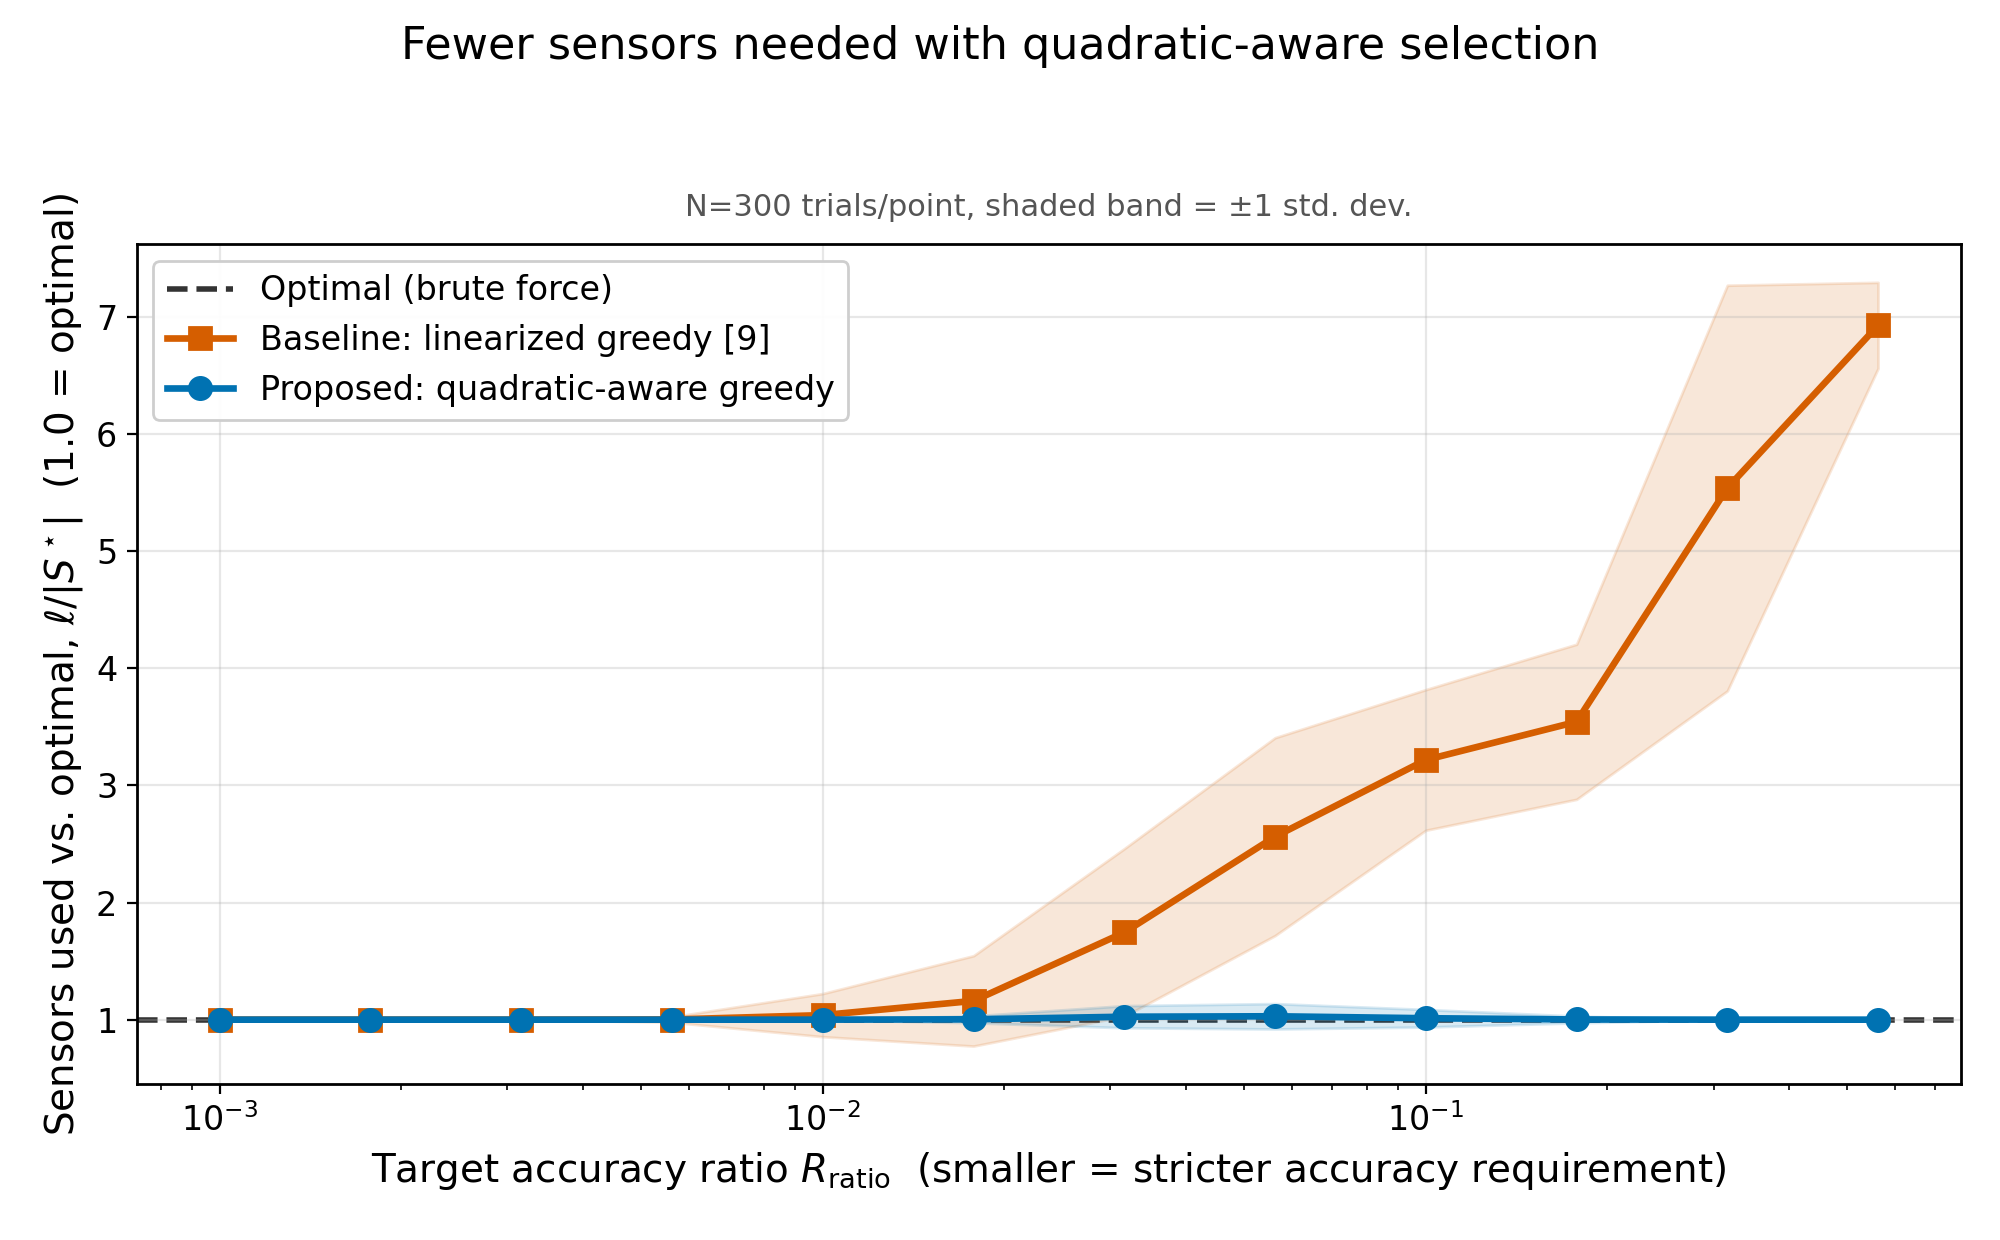
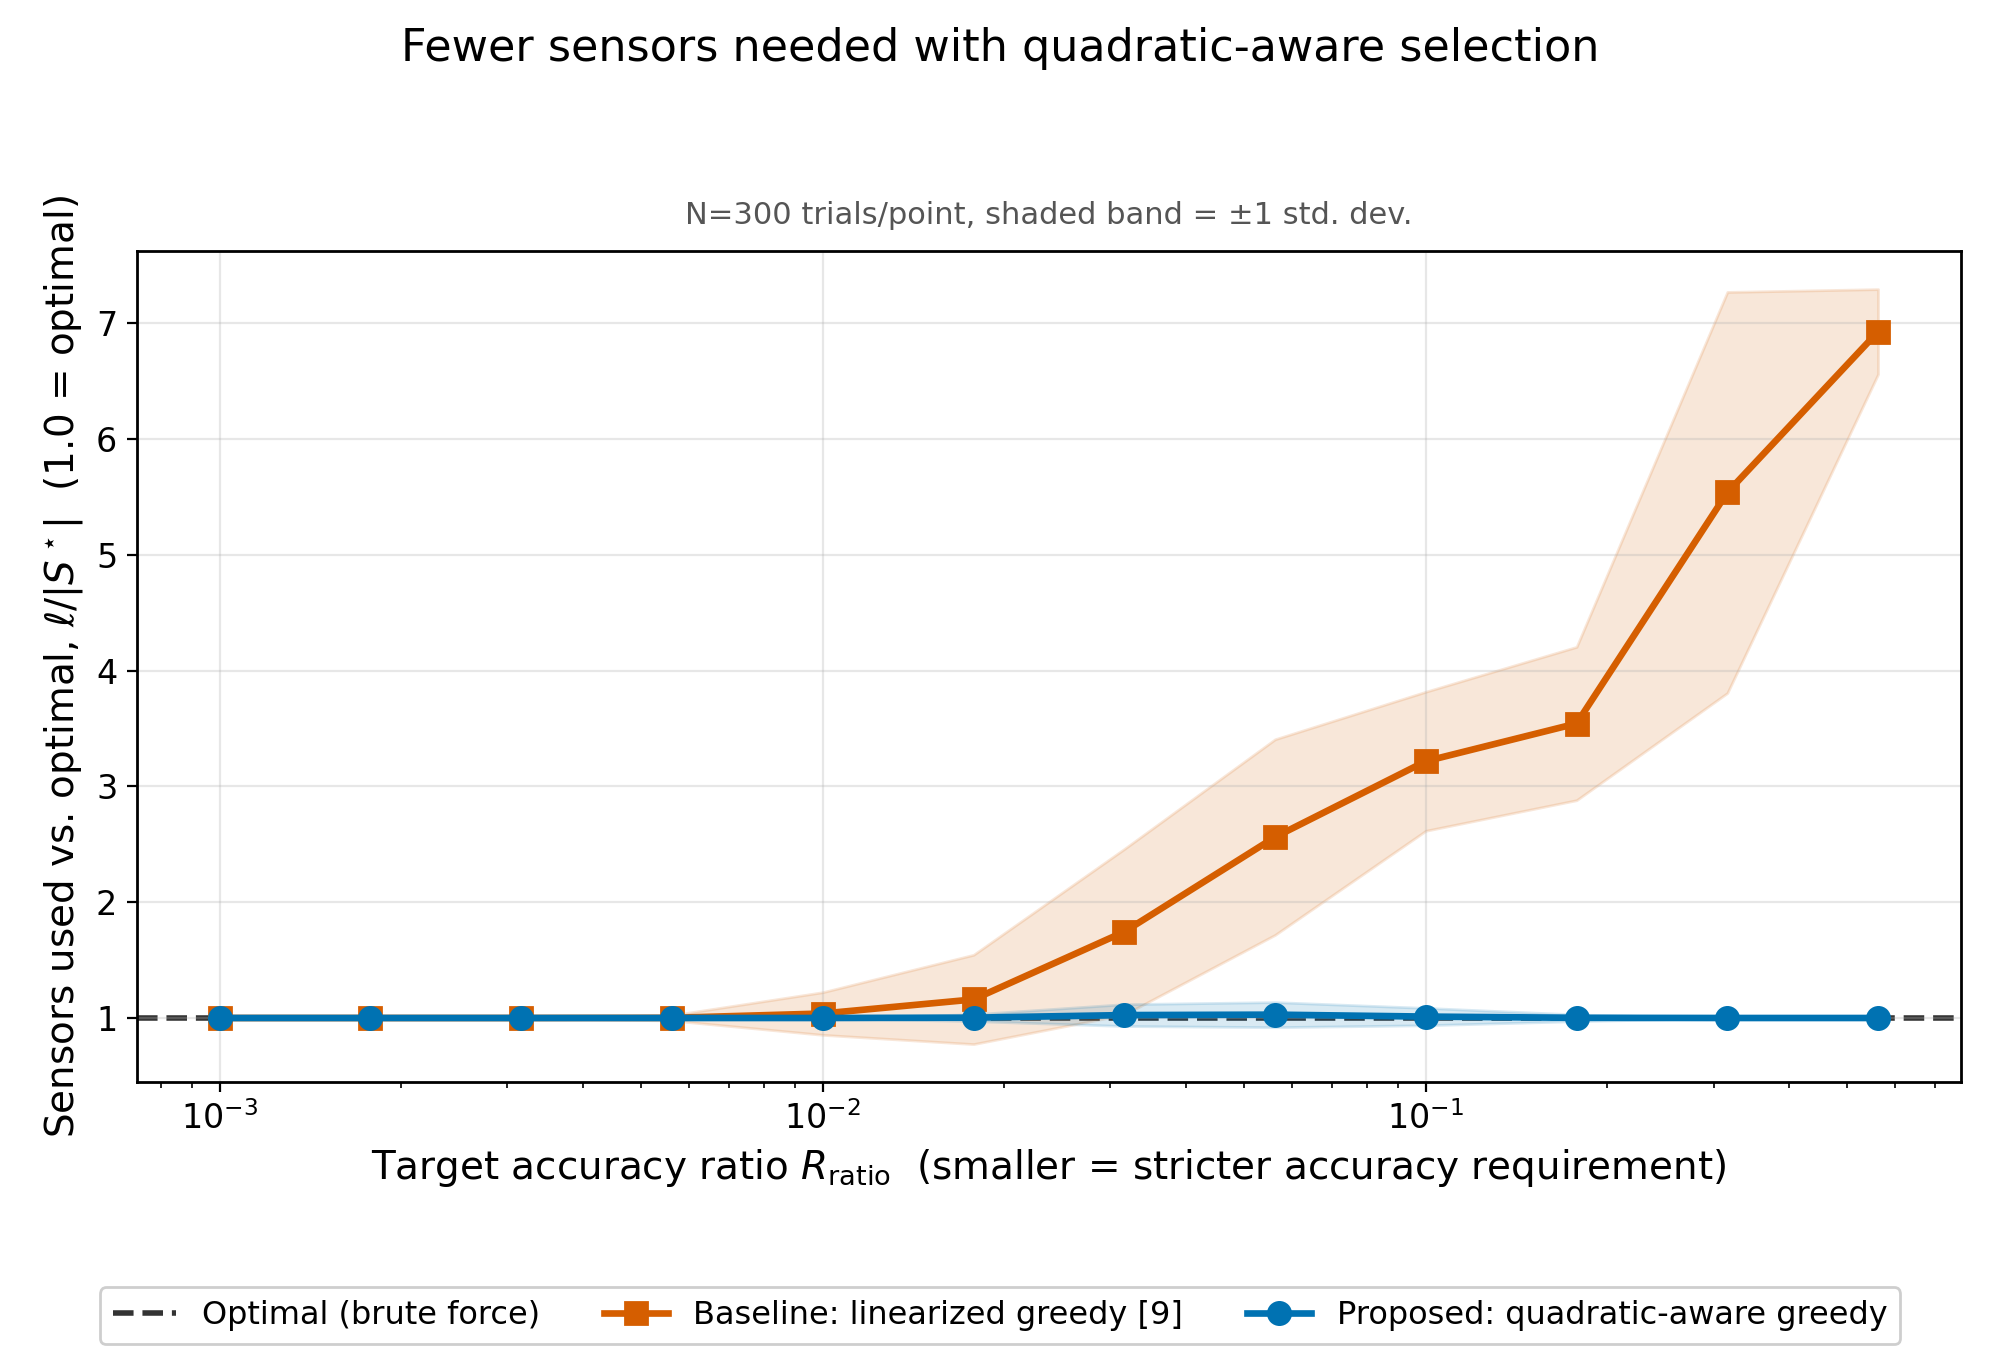
fixed figures

diff --git a/LQG_QKF/CDC/generate_figures.py b/LQG_QKF/CDC/generate_figures.py
@@ -94,7 +94,7 @@ def generate_fig1():
     quad_mean, quad_std = np.array(quad_mean), np.array(quad_std)
     lin_mean, lin_std = np.array(lin_mean), np.array(lin_std)
 
-    fig, ax = plt.subplots(figsize=(10, 6.2))
+    fig, ax = plt.subplots(figsize=(10, 6.8))
     ax.axhline(1.0, color=COLORS['brute'], linestyle='--', linewidth=2,
                label='Optimal (brute force)', zorder=1)
     ax.plot(R_ratios, lin_mean, color=COLORS['lin'], marker='s',
@@ -106,11 +106,17 @@ def generate_fig1():
     ax.set_xscale('log')
     ax.set_xlabel(r'Target accuracy ratio $R_{\mathrm{ratio}}$  (smaller = stricter accuracy requirement)')
     ax.set_ylabel(r'Sensors used vs. optimal, $\ell/|S^\star|$  (1.0 = optimal)')
-    ax.legend(loc='upper left', framealpha=0.95)
     ax.grid(alpha=0.3)
     fig.suptitle('Fewer sensors needed with quadratic-aware selection', y=0.98, fontsize=16)
     ax.set_title(f'N={N_FIG1} trials/point, shaded band = ±1 std. dev.', fontsize=11, color='#555555', pad=10)
-    fig.tight_layout(rect=[0, 0, 1, 0.94])
+    # Legend placed OUTSIDE the axes (below the plot), not in a corner of the data area -- the random
+    # Monte Carlo draws aren't seeded, so a curve's exact shape shifts slightly run to run, and any
+    # "empty corner" chosen by eye today could get crossed by a curve on a future re-run. Placing the
+    # legend fully outside the axes makes overlap structurally impossible regardless of curve shape.
+    handles, labels = ax.get_legend_handles_labels()
+    fig.legend(handles, labels, loc='lower center', bbox_to_anchor=(0.5, 0.0), ncol=3,
+               fontsize=11.5, framealpha=0.95)
+    fig.tight_layout(rect=[0, 0.09, 1, 0.94])
     fig.savefig(perf_dir + 'fig1.png', dpi=200)
     plt.close(fig)
     print(f"Saved {perf_dir}fig1.png")
@@ -166,7 +172,7 @@ def generate_fig2():
     left = sweep_panel('C_scale', c_scales, fixed_C_scale=None, fixed_noise_scale=NOISE_SCALE_FIG1, rng=rng)
     right = sweep_panel('noise_scale', noise_scales, fixed_C_scale=10.0, fixed_noise_scale=None, rng=rng)
 
-    fig, axes = plt.subplots(1, 2, figsize=(13, 6.3))
+    fig, axes = plt.subplots(1, 2, figsize=(13, 7.0))
     for ax, xvals, data, xlabel, title in [
         (axes[0], c_scales, left, 'Linear-term magnitude (C scale)',
          'Varying the linear measurement term'),
@@ -186,7 +192,6 @@ def generate_fig2():
         ax.set_xlabel(xlabel)
         ax.set_ylabel(r'Supermodularity ratio $\gamma_h$' + '\n(higher = tighter guarantee)')
         ax.set_title(title, fontsize=13)
-        ax.legend(loc='lower right', framealpha=0.95, fontsize=10.5)
         ax.grid(alpha=0.3)
     fig.suptitle('How tight is the theoretical guarantee? (Per-sensor bound)', y=1.0)
     fig.text(0.5, 0.925,
@@ -194,7 +199,12 @@ def generate_fig2():
               f'higher is a tighter, more useful guarantee. N={N_FIG2} trials/point, '
               rf'$R_\mathrm{{ratio}}={R_RATIO}$.',
               ha='center', fontsize=10.5, color='#555555')
-    fig.tight_layout(rect=[0, 0, 1, 0.89])
+    # One shared legend for both panels (they use identical series/colors), placed below both axes --
+    # see the comment in generate_fig1() for why legends live outside the data area in this file.
+    handles, labels = axes[0].get_legend_handles_labels()
+    fig.legend(handles, labels, loc='lower center', bbox_to_anchor=(0.5, 0.0), ncol=3,
+               fontsize=11, framealpha=0.95)
+    fig.tight_layout(rect=[0, 0.08, 1, 0.89])
     fig.savefig(perf_dir + 'fig2.png', dpi=200)
     plt.close(fig)
     print(f"Saved {perf_dir}fig2.png")

diff --git a/LQG_QKF/CDCRevised/generate_figures.py b/LQG_QKF/CDCRevised/generate_figures.py
@@ -93,7 +93,7 @@ def generate_fig1():
     quad_mean, quad_std = np.array(quad_mean), np.array(quad_std)
     lin_mean, lin_std = np.array(lin_mean), np.array(lin_std)
 
-    fig, ax = plt.subplots(figsize=(10, 6.2))
+    fig, ax = plt.subplots(figsize=(10, 6.8))
     ax.axhline(1.0, color=COLORS['brute'], linestyle='--', linewidth=2,
                label='Optimal (brute force)', zorder=1)
     ax.plot(R_ratios, lin_mean, color=COLORS['lin'], marker='s',
@@ -105,11 +105,17 @@ def generate_fig1():
     ax.set_xscale('log')
     ax.set_xlabel(r'Target accuracy ratio $R_{\mathrm{ratio}}$  (smaller = stricter accuracy requirement)')
     ax.set_ylabel(r'Sensors used vs. optimal, $\ell/|S^\star|$  (1.0 = optimal)')
-    ax.legend(loc='upper left', framealpha=0.95)
     ax.grid(alpha=0.3)
     fig.suptitle('Fewer sensors needed with quadratic-aware selection', y=0.98, fontsize=16)
     ax.set_title(f'N={N_FIG1} trials/point, shaded band = ±1 std. dev.', fontsize=11, color='#555555', pad=10)
-    fig.tight_layout(rect=[0, 0, 1, 0.94])
+    # Legend placed OUTSIDE the axes (below the plot), not in a corner of the data area -- the random
+    # Monte Carlo draws aren't seeded, so a curve's exact shape shifts slightly run to run, and any
+    # "empty corner" chosen by eye today could get crossed by a curve on a future re-run. Placing the
+    # legend fully outside the axes makes overlap structurally impossible regardless of curve shape.
+    handles, labels = ax.get_legend_handles_labels()
+    fig.legend(handles, labels, loc='lower center', bbox_to_anchor=(0.5, 0.0), ncol=3,
+               fontsize=11.5, framealpha=0.95)
+    fig.tight_layout(rect=[0, 0.09, 1, 0.94])
     fig.savefig(perf_dir + 'fig1.png', dpi=200)
     plt.close(fig)
     print(f"Saved {perf_dir}fig1.png")
@@ -165,7 +171,7 @@ def generate_fig2():
     left = sweep_panel('C_scale', c_scales, fixed_C_scale=None, fixed_noise_scale=NOISE_SCALE_FIG1, rng=rng)
     right = sweep_panel('noise_scale', noise_scales, fixed_C_scale=10.0, fixed_noise_scale=None, rng=rng)
 
-    fig, axes = plt.subplots(1, 2, figsize=(13, 6.3))
+    fig, axes = plt.subplots(1, 2, figsize=(13, 7.0))
     for ax, xvals, data, xlabel, title in [
         (axes[0], c_scales, left, 'Linear-term magnitude (C scale)',
          'Varying the linear measurement term'),
@@ -185,7 +191,6 @@ def generate_fig2():
         ax.set_xlabel(xlabel)
         ax.set_ylabel(r'Supermodularity ratio $\gamma_h$' + '\n(higher = tighter guarantee)')
         ax.set_title(title, fontsize=13)
-        ax.legend(loc='lower right', framealpha=0.95, fontsize=10.5)
         ax.grid(alpha=0.3)
     fig.suptitle('How tight is the theoretical guarantee? (Woodbury bound)', y=1.0)
     fig.text(0.5, 0.925,
@@ -193,7 +198,12 @@ def generate_fig2():
               f'higher is a tighter, more useful guarantee. N={N_FIG2} trials/point, '
               rf'$R_\mathrm{{ratio}}={R_RATIO}$.',
               ha='center', fontsize=10.5, color='#555555')
-    fig.tight_layout(rect=[0, 0, 1, 0.89])
+    # One shared legend for both panels (they use identical series/colors), placed below both axes --
+    # see the comment in generate_fig1() for why legends live outside the data area in this file.
+    handles, labels = axes[0].get_legend_handles_labels()
+    fig.legend(handles, labels, loc='lower center', bbox_to_anchor=(0.5, 0.0), ncol=3,
+               fontsize=11, framealpha=0.95)
+    fig.tight_layout(rect=[0, 0.08, 1, 0.89])
     fig.savefig(perf_dir + 'fig2.png', dpi=200)
     plt.close(fig)
     print(f"Saved {perf_dir}fig2.png")

diff --git a/LQG_QKF/CDCRevised/CDC2026.tex b/LQG_QKF/CDCRevised/CDC2026.tex
@@ -499,7 +499,7 @@ To evaluate the supermodularity-ratio analysis in Theorem~2, Fig.~2 compares the
 
 
 
-In the right panel, we evaluate the proposed lower bound under a sweep of the measurement-noise scale. We vary the measurement-noise scale over $[10^{0},10^{4}]$ using a fixed nonzero linear-term scale $10$, multiplicated with randomly generated base $C_0$ and the same remaining parameters. The empirical supermodularity ratio stays above both theoretical curves across the full sweep, again confirming that the proposed bound is a valid conservative certificate. The proposed bound is looser than the bound from~\cite{c19} throughout the swept range: the gap is largest at low noise (roughly four orders of magnitude at $\sigma^2=1$) and narrows substantially as noise increases, to within a factor of two at $\sigma^2=10^4$. This is the price of the proposed bound's greater generality -- it places no rank or linear-term restriction on the observation model, whereas the~\cite{c19} curve applies that reference's own closed-form constant, derived only for rank-one, zero-linear-term sensors, outside its stated range of validity.
+In the right panel, we evaluate the proposed lower bound under a sweep of the measurement-noise scale. We vary the measurement-noise scale over $[10^{0},10^{4}]$ using a fixed nonzero linear-term scale $10$, multiplicated with randomly generated base $C_0$ and the same remaining parameters. The empirical supermodularity ratio stays above both theoretical curves across the full sweep, again confirming that the proposed bound is a valid conservative certificate. The proposed bound is looser than the bound from~\cite{c19} throughout the swept range: the gap is largest at low noise (roughly four orders of magnitude at $\sigma^2=1$) and narrows substantially as noise increases, to within a factor of two at $\sigma^2=10^4$. This is the price of the proposed bound's greater generality -- it places no rank or linear-term restriction on the observation model, whereas the~\cite{c19} curve applies that reference's own closed-form constant, derived only for rank-one, zero-linear-term sensors, outside its stated range of validity. In broader numerical tests spanning varied dimension, sensor count, rank, and heterogeneous per-sensor noise, we did not find a case in which this constant was violated, suggesting it may remain a valid bound beyond its proven case in practice, though no such extension has been established analytically.
 
 \begin{figure}[h]
     \centering

diff --git a/LQG_QKF/CDCRevised/mse_vs_bound.py b/LQG_QKF/CDCRevised/mse_vs_bound.py
@@ -156,7 +156,7 @@ def make_plot(bounds, all_errors):
     lo = np.array([np.percentile(e, 25) for e in all_errors])
     hi = np.array([np.percentile(e, 75) for e in all_errors])
 
-    fig, axes = plt.subplots(1, 2, figsize=(13, 6))
+    fig, axes = plt.subplots(1, 2, figsize=(13, 6.6))
 
     ax = axes[0]
     ax.plot(NOISE_SCALES, bounds, color=COLOR_BOUND, marker='^',
@@ -170,7 +170,6 @@ def make_plot(bounds, all_errors):
     ax.set_xlabel(r'Measurement-noise scale $\sigma^2$')
     ax.set_ylabel('Squared estimation error')
     ax.set_title('Does the bound actually hold?', fontsize=12.5)
-    ax.legend(fontsize=9.5, loc='lower right', framealpha=0.95)
     ax.grid(alpha=0.3)
 
     ax = axes[1]
@@ -191,7 +190,15 @@ def make_plot(bounds, all_errors):
               f'N={N_TRIALS} trials/point). The bound is never violated, but a naive '
               f'estimator does not reliably approach it.',
               ha='center', fontsize=9.5, color='#555555')
-    fig.tight_layout(rect=[0, 0, 1, 0.86])
+    # Legend for the left panel's series only (the right panel has a single, unlabeled series), placed
+    # below BOTH panels at the figure level -- same pattern used successfully in generate_figures.py.
+    # An axes-relative anchor was tried first and it collided with the neighboring panel's x-axis label;
+    # anchoring to the whole figure instead avoids that (its position no longer depends on exactly where
+    # one axes ends and the next begins).
+    handles, labels = axes[0].get_legend_handles_labels()
+    fig.legend(handles, labels, loc='lower center', bbox_to_anchor=(0.5, 0.0), ncol=3,
+               fontsize=10, framealpha=0.95)
+    fig.tight_layout(rect=[0, 0.1, 1, 0.86])
     fig.savefig(perf_dir + 'remark1_mse_vs_bound.png', dpi=200)
     plt.close(fig)
     print(f"Saved {perf_dir}remark1_mse_vs_bound.png")
